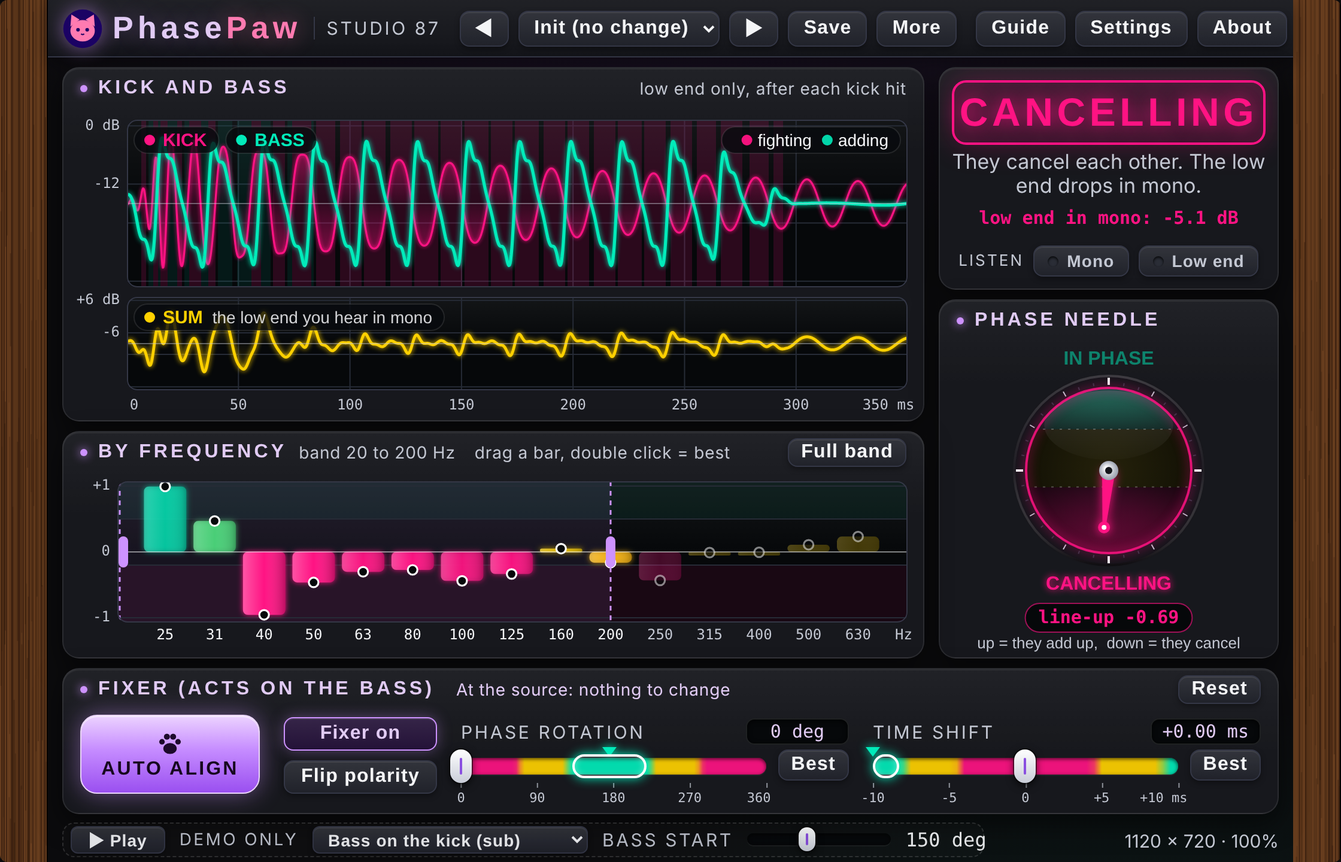
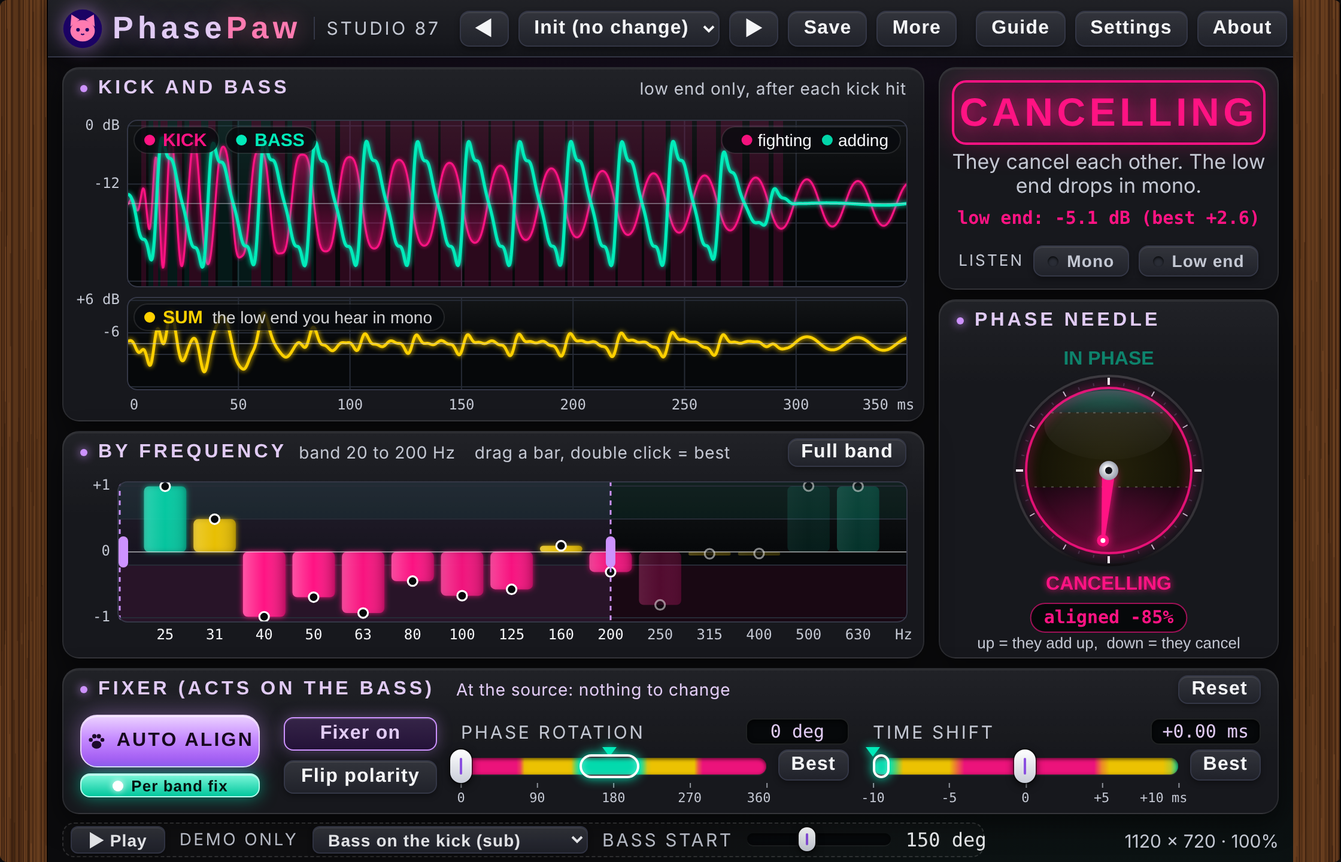
Mockup v9: alignment relative to the best reachable, Auto Align with per band fix
Claude-Session: https://claude.ai/code/session_01S9jrKx1fybVa6evnWT4mGP

diff --git a/docs/mockups/PhasePaw-mockup-v9.html b/docs/mockups/PhasePaw-mockup-v9.html
@@ -3,7 +3,7 @@
 <head>
 <meta charset="utf-8">
 <meta name="viewport" content="width=device-width,initial-scale=1">
-<title>PhasePaw v7 design mockup, Studio 87</title>
+<title>PhasePaw v9 design mockup, Studio 87</title>
 <link href="https://fonts.googleapis.com/css2?family=Barlow+Condensed:wght@500;600;700&family=JetBrains+Mono:wght@400;500;700&display=swap" rel="stylesheet">
 <style>
 :root,#page[data-skin="B"]{--page:#0b0b0d;--panel:#14151a;--panel2:#1e2028;--line:#343746;--disp:#06080a;--grid:#262b36;--text:#f4f5f7;--dim:#c3c7d2;--title:#E1CBF4;--selbg:#241238;--selbd:#CD92FE;--seltx:#E1CBF4;--kick:#FF1383;--bass:#02EBBA;--sum:#FFD100;--good:#02EBBA;--warn:#FFD100;--bad:#FF1383}
@@ -123,6 +123,7 @@ textarea{height:auto;width:100%;font:500 14px 'JetBrains Mono','DejaVu Sans Mono
 .chip.mon .led{width:9px;height:9px;border-radius:50%;background:#2a2d36;box-shadow:inset 0 1px 2px rgba(0,0,0,.9)}
 .chip.mon.on{color:#04130f;background:linear-gradient(180deg,#7df7da,#02c79d);border-color:#b6ffee;box-shadow:0 0 14px rgba(2,235,186,.55),inset 0 1px 0 rgba(255,255,255,.5)}
 .chip.mon.on .led{background:#fff;box-shadow:0 0 6px #fff}
+.btn.primary svg{width:20px;height:20px}
 </style>
 </head>
 <body>
@@ -149,7 +150,7 @@ textarea{height:auto;width:100%;font:500 14px 'JetBrains Mono','DejaVu Sans Mono
   </div>
 
   <div class="panel" id="pTrace" style="left:52px;top:56px;width:720px;height:296px">
-    <div class="ph"><h2>Kick and bass</h2><span class="sp"></span><span class="hint">low end only, after each kick hit</span></div>
+    <div class="ph"><h2>Kick and bass</h2><span class="sp"></span><span class="hint" id="hitLab">low end only, after each kick hit</span></div>
     <canvas id="cvTrace" style="width:704px;height:252px;margin:5px 7px 0"></canvas>
   </div>
 
@@ -175,7 +176,7 @@ textarea{height:auto;width:100%;font:500 14px 'JetBrains Mono','DejaVu Sans Mono
     <div class="ph"><h2>Fixer (acts on the bass)</h2><span class="hint" id="srcHint" data-tip="The same fix done before the plugin, so you can switch the fixer off and add no latency. In a synth: move the oscillator start phase by this many degrees (retrigger must be on). With an audio clip: nudge it by this many ms. It matches the fixer at the bass note itself; bands you turned by hand are not included." style="flex:1;min-width:0;overflow:hidden;text-overflow:ellipsis;color:var(--seltx);margin-left:8px"></span>
       <button class="btn" id="fxReset" data-tip="Put the fixer back to its start values. Key: R." style="height:24px;padding:0 10px">Reset</button></div>
     <div style="display:flex;gap:20px;padding:4px 14px 0;align-items:flex-start">
-      <button class="btn primary" id="fxAuto" data-tip="Finds the best fix in one click: tries every time shift and phase rotation together, then flips the polarity instead when that needs less rotation. It clears any bands you turned by hand. Key: A." style="height:66px;width:150px;flex:none"><svg viewBox="0 0 24 24" width="24" height="24" fill="#1d0a2b" aria-hidden="true"><ellipse cx="12" cy="16.2" rx="5.6" ry="4.6"/><circle cx="5.3" cy="10.6" r="2.3"/><circle cx="9.4" cy="6.4" r="2.5"/><circle cx="14.6" cy="6.4" r="2.5"/><circle cx="18.7" cy="10.6" r="2.3"/></svg><span>AUTO ALIGN</span></button>
+      <div style="display:flex;flex-direction:column;gap:5px;width:150px;flex:none"><button class="btn primary" id="fxAuto" data-tip="Finds the best fix in one click: tries every time shift and phase rotation together, then flips the polarity instead when that needs less rotation. It clears any bands you turned by hand. Key: A." style="height:44px;width:150px;flex:none;flex-direction:row;gap:8px"><svg viewBox="0 0 24 24" width="24" height="24" fill="#1d0a2b" aria-hidden="true"><ellipse cx="12" cy="16.2" rx="5.6" ry="4.6"/><circle cx="5.3" cy="10.6" r="2.3"/><circle cx="9.4" cy="6.4" r="2.5"/><circle cx="14.6" cy="6.4" r="2.5"/><circle cx="18.7" cy="10.6" r="2.3"/></svg><span>AUTO ALIGN</span></button><button class="chip mon on" id="fxDeep" data-tip="Per band fix. When lit, Auto Align also turns each frequency band to its own best phase, so basslines with several notes or octaves line up much better. The price in the real plugin: it needs some latency. Switch it off for the simple fix with one setting for everything. Clicking it runs Auto Align again." style="height:20px;font-size:13px;justify-content:center"><i class="led"></i>Per band fix</button></div>
       <div style="display:flex;flex-direction:column;gap:8px;width:128px;flex:none;padding-top:2px">
         <button class="chip on" id="fxOn" data-tip="Fixer on or off (A/B). Off passes the bass untouched. Key: B." style="height:28px;padding:0 4px">Fixer on</button>
         <button class="chip" id="fxPol" data-tip="Flip the polarity of the bass. A flipped bass turns cancelling into adding, and the other way round. Key: P." style="height:28px;padding:0 4px">Flip polarity</button>
@@ -195,7 +196,7 @@ textarea{height:auto;width:100%;font:500 14px 'JetBrains Mono','DejaVu Sans Mono
   <div class="row" id="demo" style="position:absolute;left:52px;top:687px;width:770px;height:29px;gap:12px">
     <button class="btn" id="bPlay" data-tip="Play or stop the demo loop (Space). The sound restarts when you move a control; that is a limit of this preview page." style="height:28px;padding:0 14px">&#9654; Play</button>
     <span class="lab" style="color:var(--dim);font-size:14px">Demo only</span>
-    <select id="selSig" style="height:28px;width:230px" data-tip="Demo kick and bass made inside this page. In the plugin the kick comes in through the sidechain and the bass is the track."><option value="sub">Kick + sub on the hit</option><option value="off">Kick + offbeat bass</option><option value="roll">Rolling bass, gap on the beat</option><option value="short">Short punchy kick + long sub</option><option value="a1">Kick + sub in A (55 Hz)</option><option value="oct">Bass one octave above the kick</option><option value="long">Long bass, kick 6% detuned</option><option value="free">Free-running bass (no retrigger)</option></select>
+    <select id="selSig" style="height:28px;width:230px" data-tip="Demo kick and bass made inside this page. In the plugin the kick comes in through the sidechain and the bass is the track."><option value="sub">Bass on the kick (sub)</option><option value="off">Offbeat bass</option><option value="oct80">80s octave bass: low on the kick, high between</option><option value="offoct">Offbeat bass, low and high octave</option><option value="rolloct">Rolling bass, low high low</option><option value="roll">Rolling bass, one note</option><option value="offmel">Offbeat bassline, note changes</option><option value="rollmel">Rolling melodic bassline</option><option value="onmel">Sustained bass, note changes</option><option value="house">Syncopated house bass</option><option value="short">Short punchy kick + long sub</option><option value="a1">Kick + sub in A (55 Hz)</option><option value="oct">Bass one octave above the kick</option><option value="long">Long bass, kick 6% detuned</option><option value="free">Free-running bass (no retrigger)</option></select>
     <span class="lab" style="color:var(--dim);font-size:15px">Bass start</span>
     <div class="sl" id="slBph" tabindex="0" style="max-width:160px;min-width:120px" data-tip="Where the demo bass starts in its cycle, 0 to 360 degrees. Move it to make the demo clash or line up. Double click to reset."><div class="trk"></div><i class="thumb"></i></div>
     <span class="val" id="vBph" style="width:60px">150 deg</span>
@@ -230,7 +231,7 @@ var NOTES=[['E1',41.20],['F1',43.65],['F#1',46.25],['G1',49.00],['G#1',51.91],['
 
 /* ===== state ===== */
 var DEF={on:true,pol:1,rot:0,time:0,lo:20,hi:200,full:false};
-var S={on:true,pol:1,rot:0,time:0,lo:20,hi:200,full:false,sig:'sub',note:1,bph:150,wid:0,mon:'mix',vol:-6,bp:[0,0,0,0,0,0,0,0,0,0,0,0,0,0,0],mono:false,low:false,win:350,show:{kick:1,b0:1,bf:1,sum:1}};
+var S={on:true,pol:1,rot:0,time:0,lo:20,hi:200,full:false,sig:'sub',note:1,bph:150,wid:0,mon:'mix',vol:-6,bp:[0,0,0,0,0,0,0,0,0,0,0,0,0,0,0],mono:false,low:false,deep:true,win:350,show:{kick:1,b0:1,bf:1,sum:1}};
 var SET={theme:'B',bubbles:true,power:false};
 try{var sv=JSON.parse(localStorage.getItem('phasepaw.settings.v1')||'{}'); if(sv.theme&&'ABC'.indexOf(sv.theme)>=0)SET.theme=sv.theme; if(typeof sv.bubbles==='boolean')SET.bubbles=sv.bubbles; if(typeof sv.power==='boolean')SET.power=sv.power;}catch(e){}
 function saveSettings(){try{localStorage.setItem('phasepaw.settings.v1',JSON.stringify(SET));}catch(e){}}
@@ -266,39 +267,44 @@ function genKick(f1,sh){
   for(var m=0;m<N;m++)k[m]*=0.9/mx;return k;
 }
 function noteEnv(t,len,att,rel){if(t<0||t>len+rel)return 0;var a=Math.min(1,t/att);var r=t<len?1:Math.max(0,1-(t-len)/rel);return a*r;}
-function genBass(f,phDeg,sig){
-  var b=new Float64Array(N),phi=phDeg*Math.PI/180,mx=0,notes,amps=[],nh=Math.min(110,Math.floor(4800/f));
-  for(var h=1;h<=nh;h++){var fr=h*f;amps.push((h===1?1.7:1/Math.pow(h,0.92))/(1+Math.pow(fr/2600,2)));}
-  if(sig==='sub')notes=[[0,0.26]];
-  else if(sig==='roll')notes=[[0.25*T,0.07],[0.5*T,0.07],[0.75*T,0.07]];
-  else if(sig==='off')notes=[[0.5*T,0.13]];
-  else notes=[[0,0.32]];
-  for(var n=0;n<N;n++){var t=n/SR,v=0;
-    for(var q=0;q<notes.length;q++){var lt=t-notes[q][0];if(lt<0)continue;
-      var e=noteEnv(lt,notes[q][1],0.003,sig==='roll'?0.015:0.04);if(!e)continue;
-      var w=2*Math.PI*f*lt+phi,s1=Math.sin(w),c1=Math.cos(w),sp=0,sc=s1,cp=1,cc=c1,s=0;
-      for(var h2=0;h2<nh;h2++){s+=amps[h2]*sc;var ns2=2*c1*sc-sp;sp=sc;sc=ns2;}
-      v+=e*s;}
-    b[n]=v;mx=Math.max(mx,Math.abs(v));}
-  for(var m=0;m<N;m++)b[m]*=0.75/mx;return b;
+function genNotes(f0,phDeg,notes){
+  var b=new Float64Array(N),phi=phDeg*Math.PI/180;
+  notes.forEach(function(nt){var f=f0*Math.pow(2,(nt[2]||0)/12),nh=Math.min(110,Math.floor(4800/f)),amps=[],rel=nt[3]||0.04;
+    for(var h=1;h<=nh;h++){amps.push((h===1?1.7:1/Math.pow(h,0.92))/(1+Math.pow(h*f/2600,2)));}
+    var n0=Math.max(0,Math.floor(nt[0]*SR)),n1=Math.min(N,Math.ceil((nt[0]+nt[1]+rel)*SR));
+    for(var n=n0;n<n1;n++){var lt=n/SR-nt[0];if(lt<0)continue;var e=noteEnv(lt,nt[1],0.003,rel);if(!e)continue;
+      var w=2*Math.PI*f*lt+phi,c1=Math.cos(w),sp=0,sc=Math.sin(w),sm=0;
+      for(var h2=0;h2<nh;h2++){sm+=amps[h2]*sc;var ns2=2*c1*sc-sp;sp=sc;sc=ns2;}
+      b[n]+=e*sm;}});
+  return b;
 }
-var basses=null,hitI=0,hits=[];
+/* demo patterns: one list of notes per beat; a note is [start s, length s, semitones, release s] */
+function patterns(){var e8=0.5*T,s=0.25*T,r=0.015;
+  function off(n){return [[e8,0.13,n]];}
+  function roll(a,b,c){return [[s,0.07,a,r],[2*s,0.07,b,r],[3*s,0.07,c,r]];}
+  return {sub:[[[0,0.26,0]]],long:[[[0,0.32,0]]],off:[off(0)],roll:[roll(0,0,0)],
+    offoct:[off(0),off(12),off(0),off(12)],oct80:[[[0,0.12,0],[e8,0.12,12]]],rolloct:[roll(0,12,0)],
+    offmel:[off(0),off(0),off(3),off(5)],rollmel:[roll(0,0,0),roll(0,0,3),roll(5,5,5),roll(3,3,-2)],
+    onmel:[[[0,0.3,0]],[[0,0.3,0]],[[0,0.3,-2]],[[0,0.3,3]]],
+    house:[[[0,0.1,0],[3*s,0.06,0,r]],[[e8,0.1,0]],[[0,0.1,3],[3*s,0.06,3,r]],[[e8,0.1,5]]]};}
+var basses=null,hitI=0,hits=[],BL=[];
 function genSignals(){
-  var sg=S.sig,f=(sg==='a1')?55:NOTES[S.note][1],pat={sub:'sub',roll:'roll',off:'off',long:'long',short:'sub',oct:'sub',a1:'sub',free:'sub'}[sg]||'sub';
+  var sg=S.sig,f=(sg==='a1')?55:NOTES[S.note][1],P=patterns(),pat=P[{short:'sub',oct:'sub',a1:'sub',free:'sub'}[sg]||sg]||P.sub;
   kick=genKick(f*(sg==='long'?1.06:1),sg==='short');
-  var bf=(sg==='oct')?f*2:f;
-  if(sg==='free'){basses=[0,100,215,305].map(function(o){return genBass(bf,(S.bph+o)%360,pat);});hitI=0;bass0=basses[0];}
-  else{basses=null;bass0=genBass(bf,S.bph,pat);}
-  hits=[];Xs=rfft(kick);Bs=rfft(bass0);BRs=Bs;
+  var bf=(sg==='oct')?f*2:f,raw;
+  if(sg==='free')raw=[0,100,215,305].map(function(o){return genNotes(bf,(S.bph+o)%360,pat[0]);});
+  else raw=pat.map(function(nts){return genNotes(bf,S.bph,nts);});
+  var mx=1e-9;raw.forEach(function(b){for(var n=0;n<N;n++)mx=Math.max(mx,Math.abs(b[n]));});raw.forEach(function(b){for(var n=0;n<N;n++)b[n]*=0.75/mx;});
+  basses=raw.length>1?raw:null;BL=raw.map(function(b){return rfft(b);});hitI=0;bass0=raw[0];
+  Xs=rfft(kick);Bs=BL[0];BRs=Bs;
 }
-function setHit(i){if(!basses)return;hitI=i;bass0=basses[i];Bs=rfft(bass0);BRs=Bs;recompute(false,true);
-  var v=D.vec0,m=Math.sqrt(v.x*v.x+v.y*v.y);if(m>0.05){hits.push([v.x/m,v.y/m]);if(hits.length>8)hits.shift();}refreshExtras();}
-function hitSpread(){if(hits.length<3)return 1;var x=0,y=0;hits.forEach(function(h){x+=h[0];y+=h[1];});return Math.sqrt(x*x+y*y)/hits.length;}
+function setHit(i){if(!basses)return;hitI=i;bass0=basses[i];Bs=BL[i];BRs=Bs;process();refreshVerdict();refreshExtras();dirty=true;}
 function fixArr(arr){var F=rfft(arr),r=new Float64Array(H+1),im=new Float64Array(H+1),th=S.rot*Math.PI/180,d=S.time/1000;
   for(var k=0;k<=H;k++){var m=Mk[k],gr=1,gi=0;if(m>0){var ph=th+Ex[k]-2*Math.PI*k*DF*d;gr=(1-m)+m*S.pol*Math.cos(ph);gi=m*S.pol*Math.sin(ph);}r[k]=F.re[k]*gr-F.im[k]*gi;im[k]=F.re[k]*gi+F.im[k]*gr;}return irfft(r,im);}
 /* bass note inside the band, and the same fix done before the plugin */
-function bassNote(){var best=0,bk=0;for(var k=kmin+1;k<kmax;k++){var m=Mk[k];if(m<0.5)continue;var a=Math.sqrt(Bs.re[k]*Bs.re[k]+Bs.im[k]*Bs.im[k]);if(a>best){best=a;bk=k;}}
-  if(!bk)return 0;var mg=function(k){return Math.sqrt(Bs.re[k]*Bs.re[k]+Bs.im[k]*Bs.im[k]);},a0=mg(bk-1),a1=mg(bk),a2=mg(bk+1),den=a0-2*a1+a2,off=den?0.5*(a0-a2)/den:0;return (bk+clamp(off,-0.5,0.5))*DF;}
+function bassNote(){var mg=function(k){var a=0;for(var q=0;q<BL.length;q++){var B=BL[q];a+=Math.sqrt(B.re[k]*B.re[k]+B.im[k]*B.im[k]);}return a;},best=0,bk=0;
+  for(var k=kmin+1;k<kmax;k++){if(Mk[k]<0.5)continue;var a=mg(k);if(a>best){best=a;bk=k;}}
+  if(!bk)return 0;var a0=mg(bk-1),a1=mg(bk),a2=mg(bk+1),den=a0-2*a1+a2,off=den?0.5*(a0-a2)/den:0;return (bk+clamp(off,-0.5,0.5))*DF;}
 function sourceFix(){var f0=bassNote();if(!f0)return null;var psi=S.on?(S.rot+(S.pol<0?180:0)-360*f0*S.time/1000):0;psi=((psi%360)+540)%360-180;
   return {f:f0,deg:psi,ms:-psi/(360*f0)*1000,bands:S.on&&S.bp.some(function(v){return Math.abs(v)>0.5;})};}
 
@@ -306,20 +312,31 @@ function sourceFix(){var f0=bassNote();if(!f0)return null;var psi=S.on?(S.rot+(S
 var Mk=new Float64Array(H+1),kmin=1,kmax=H;
 function ss(x){x=clamp(x,0,1);return x*x*(3-2*x);}
 var Ex=new Float64Array(H+1);
-function setEx(){for(var k=0;k<=H;k++){var p=Math.round(Math.log2(Math.max(k*DF,1)/25)*3);p=p<0?0:(p>14?14:p);Ex[k]=S.bp[p]*Math.PI/180;}}
+function setEx(){for(var k=0;k<=H;k++){if(!S.on){Ex[k]=0;continue;}var p=Math.round(Math.log2(Math.max(k*DF,1)/25)*3);p=p<0?0:(p>14?14:p);Ex[k]=S.bp[p]*Math.PI/180;}}
 function setMask(){setEx();
   var top=S.full?2000:2500;kmax=Math.min(H,Math.floor(top/DF));kmin=Math.max(1,Math.floor(12/DF));
   for(var k=0;k<=H;k++){var f=k*DF,m=0;
     if(k>=kmin&&k<=kmax){ if(S.full)m=1;else{var lr=Math.log2(f/S.lo),hr=Math.log2(S.hi/f);m=ss((lr+0.3)/0.6)*ss((hr+0.3)/0.6);} }
     Mk[k]=m;}
 }
+/* the most that kick and bass can add up with one phase turn and one time shift ("overlap") */
+var cmaxBase=0,tDeep=0;
+function calcMax(){var ks=[],k,q,B,w=0,bestG=0,bestB=-1;for(k=kmin;k<=kmax;k++){if(Mk[k]>=1e-3)ks.push(k);}
+  var n=ks.length,cre=new Float64Array(n),cim=new Float64Array(n),bd=new Int8Array(n);
+  for(var i=0;i<n;i++){k=ks[i];var m=Mk[k],xr=Xs.re[k],xi=Xs.im[k],xm=Math.sqrt(xr*xr+xi*xi),p=Math.round(Math.log2(Math.max(k*DF,1)/25)*3);bd[i]=p<0?0:(p>14?14:p);
+    for(q=0;q<BL.length;q++){B=BL[q];cre[i]+=m*(xr*B.re[k]+xi*B.im[k]);cim[i]+=m*(xi*B.re[k]-xr*B.im[k]);w+=m*xm*Math.sqrt(B.re[k]*B.re[k]+B.im[k]*B.im[k]);}}
+  var ba=new Float64Array(15),bb=new Float64Array(15);tDeep=0;
+  for(var t=-10;t<=10.001;t+=0.1){var a=0,b=0,j;for(j=0;j<15;j++){ba[j]=0;bb[j]=0;}
+    for(j=0;j<n;j++){var ph=2*Math.PI*ks[j]*DF*t/1000,c=Math.cos(ph),sn=Math.sin(ph),u=cre[j]*c-cim[j]*sn,v=cre[j]*sn+cim[j]*c;a+=u;b+=v;ba[bd[j]]+=u;bb[bd[j]]+=v;}
+    var mg=Math.sqrt(a*a+b*b);if(mg>bestG)bestG=mg;
+    var sb=0;for(j=0;j<15;j++)sb+=Math.sqrt(ba[j]*ba[j]+bb[j]*bb[j]);var sc=sb-0.004*Math.abs(t)*w;if(sc>bestB){bestB=sc;tDeep=-Math.round(t*10)/10;D.bMax=w>0?sb/w:0;}}
+  D.gMax=w>0?bestG/w:0;cmaxBase=S.deep?D.bMax:D.gMax;}
+function rel(c){var m=(D&&D.cmax)||1;return clamp(c/m,-1,1);}
 function corrWith(rotDeg,timeMs,pol){
-  var th=rotDeg*Math.PI/180,d=timeMs/1000,w=0,c=0;
+  var th=rotDeg*Math.PI/180,d=timeMs/1000,w=0,c=0,nb=BL.length;
   for(var k=kmin;k<=kmax;k++){var m=Mk[k];if(m<1e-3)continue;
-    var ph=th+Ex[k]-2*Math.PI*k*DF*d,rr=pol*Math.cos(ph),ri=pol*Math.sin(ph);
-    var gr=(1-m)+m*rr,gi=m*ri,br=Bs.re[k]*gr-Bs.im[k]*gi,bi=Bs.re[k]*gi+Bs.im[k]*gr;
-    var xr=Xs.re[k],xi=Xs.im[k];
-    w+=m*Math.sqrt((xr*xr+xi*xi)*(br*br+bi*bi));c+=m*(xr*br+xi*bi);}
+    var ph=th+Ex[k]-2*Math.PI*k*DF*d,rr=pol*Math.cos(ph),ri=pol*Math.sin(ph),gr=(1-m)+m*rr,gi=m*ri,xr=Xs.re[k],xi=Xs.im[k],x2=xr*xr+xi*xi;
+    for(var q=0;q<nb;q++){var B=BL[q],r0=B.re[k],i0=B.im[k],br=r0*gr-i0*gi,bi=r0*gi+i0*gr;w+=m*Math.sqrt(x2*(br*br+bi*bi));c+=m*(xr*br+xi*bi);}}
   var cc=w>0?c/w:0;return {c:cc,g:10*Math.log10(Math.max(1e-4,1+cc))};
 }
 var D={};
@@ -327,8 +344,8 @@ function bandCorrAt(i,rDeg){
   var lo=BANDS[i]*Math.pow(2,-1/6),hi=BANDS[i]*Math.pow(2,1/6),k0=Math.max(1,Math.ceil(lo/DF)),k1=Math.max(k0,Math.floor(hi/DF));
   var th=(S.rot+rDeg)*Math.PI/180,d=S.time/1000,w=0,c=0;
   for(var k=k0;k<=k1;k++){var m=Mk[k];var gr=1,gi=0;if(m>0){var ph=th-2*Math.PI*k*DF*d,rr=S.pol*Math.cos(ph),ri=S.pol*Math.sin(ph);gr=(1-m)+m*rr;gi=m*ri;}
-    var br=Bs.re[k]*gr-Bs.im[k]*gi,bi=Bs.re[k]*gi+Bs.im[k]*gr,xr=Xs.re[k],xi=Xs.im[k];
-    w+=Math.sqrt((xr*xr+xi*xi)*(br*br+bi*bi));c+=xr*br+xi*bi;}
+    var xr=Xs.re[k],xi=Xs.im[k],x2=xr*xr+xi*xi;
+    for(var q=0;q<BL.length;q++){var B=BL[q],br=B.re[k]*gr-B.im[k]*gi,bi=B.re[k]*gi+B.im[k]*gr;w+=Math.sqrt(x2*(br*br+bi*bi));c+=xr*br+xi*bi;}}
   return w>0?c/w:0;
 }
 function bandSolve(i,target,cur){var best=0,bd=9;for(var r=0;r<360;r+=3){var d=Math.abs(bandCorrAt(i,r)-target)+0.0008*Math.abs(((r-cur+540)%360)-180)/180;if(d<bd){bd=d;best=r;}}return best;}
@@ -342,16 +359,20 @@ function autoAlign(){
   var pol=1;if(br>90&&br<270){pol=-1;br=(br+180)%360;}
   bt=Math.round(bt*20)/20;var bc=corrWith(br,bt,pol).c,cands=[[1,0,0],[-1,0,0],[pol,br,0],[pol,0,bt]];
   for(var i=0;i<cands.length;i++){var q=cands[i];if(corrWith(q[1],q[2],q[0]).c>=bc-0.01){pol=q[0];br=q[1];bt=q[2];break;}}
-  S.pol=pol;S.rot=br;S.time=bt;syncUI();recompute(false);
+  S.pol=pol;S.rot=br;S.time=bt;
+  if(S.deep){setMask();calcMax();var tt=clamp(tDeep,-10,10),bst=-9,brr=0;for(var r3=0;r3<360;r3+=2){var c3=corrWith(r3,tt,1).c;if(c3>bst){bst=c3;brr=r3;}}
+    var pl=1;if(brr>90&&brr<270){pl=-1;brr=(brr+180)%360;}S.pol=pl;S.rot=brr;S.time=tt;setMask();
+    for(var j=0;j<BANDS.length;j++){if(!(S.full||(BANDS[j]>=S.lo/1.15&&BANDS[j]<=S.hi*1.15)))continue;var bb=bandBest(j);if(bandCorrAt(j,bb)-bandCorrAt(j,0)>0.02)S.bp[j]=bb;}}
+  syncUI();recompute(false);
 }
 function process(){
   var on=S.on,th=S.rot*Math.PI/180,d=S.time/1000,pol=S.pol;
   var BFr=new Float64Array(H+1),BFi=new Float64Array(H+1),RFr=new Float64Array(H+1),RFi=new Float64Array(H+1);
-  var BBr=new Float64Array(H+1),BBi=new Float64Array(H+1),XBr=new Float64Array(H+1),XBi=new Float64Array(H+1);
+  var BBr=new Float64Array(H+1),BBi=new Float64Array(H+1),XBr=new Float64Array(H+1),XBi=new Float64Array(H+1),Gr=new Float64Array(H+1),Gi=new Float64Array(H+1);
   for(var k=0;k<=H;k++){
     var m=Mk[k],gr=1,gi=0,rr=1,ri=0;
     if(on&&m>0){var ph=th+Ex[k]-2*Math.PI*k*DF*d;rr=pol*Math.cos(ph);ri=pol*Math.sin(ph);gr=(1-m)+m*rr;gi=m*ri;}
-    BFr[k]=Bs.re[k]*gr-Bs.im[k]*gi;BFi[k]=Bs.re[k]*gi+Bs.im[k]*gr;
+    Gr[k]=gr;Gi[k]=gi;BFr[k]=Bs.re[k]*gr-Bs.im[k]*gi;BFi[k]=Bs.re[k]*gi+Bs.im[k]*gr;
     RFr[k]=BRs.re[k]*gr-BRs.im[k]*gi;RFi[k]=BRs.re[k]*gi+BRs.im[k]*gr;
     var mr=on?m*rr:m,mi=on?m*ri:0;
     BBr[k]=Bs.re[k]*mr-Bs.im[k]*mi;BBi[k]=Bs.re[k]*mi+Bs.im[k]*mr;
@@ -365,20 +386,22 @@ function process(){
   var hop=64,nb=N/hop;D.bk=new Float64Array(nb);D.bb=new Float64Array(nb);D.bs=new Float64Array(nb);
   for(var i=0;i<nb;i++){var a=0,b=0,c=0;for(var j=0;j<hop;j++){var n2=i*hop+j;a=Math.max(a,Math.abs(kick[n2]));b=Math.max(b,Math.abs(D.bf[n2]));c=Math.max(c,Math.abs(D.sum[n2]));}D.bk[i]=a;D.bb[i]=b;D.bs[i]=c;}
   /* overall (band) */
-  var ov=on?corrWith(S.rot,S.time,S.pol):corrWith(0,0,1);D.corr=ov.c;D.gain=ov.g;
-  (function(){var cr=0,ci=0,w=0,cr0=0,ci0=0,w0=0;for(var k=kmin;k<=kmax;k++){var m=Mk[k];if(m<1e-3)continue;var xr=Xs.re[k],xi=Xs.im[k],xm=Math.sqrt(xr*xr+xi*xi);
-    var br=BFr[k],bi=BFi[k];cr+=m*(xr*br+xi*bi);ci+=m*(xi*br-xr*bi);w+=m*xm*Math.sqrt(br*br+bi*bi);
-    br=Bs.re[k];bi=Bs.im[k];cr0+=m*(xr*br+xi*bi);ci0+=m*(xi*br-xr*bi);w0+=m*xm*Math.sqrt(br*br+bi*bi);}
-    D.vec=w>0?{x:-ci/w,y:cr/w}:{x:0,y:0};D.vec0=w0>0?{x:-ci0/w0,y:cr0/w0}:{x:0,y:0};})();
+  var ov=on?corrWith(S.rot,S.time,S.pol):corrWith(0,0,1);D.corr=ov.c;D.gain=ov.g;D.cmax=Math.max(cmaxBase,Math.abs(D.corr),1e-6);D.gainBest=10*Math.log10(1+D.cmax);
+  (function(){var cr=0,ci=0,w=0,cr0=0,ci0=0,w0=0,hx=0,hy=0,hn=0;
+    BL.forEach(function(B){var a=0,b=0,ww=0;for(var k=kmin;k<=kmax;k++){var m=Mk[k];if(m<1e-3)continue;var xr=Xs.re[k],xi=Xs.im[k],xm=Math.sqrt(xr*xr+xi*xi),r0=B.re[k],i0=B.im[k],br=r0*Gr[k]-i0*Gi[k],bi=r0*Gi[k]+i0*Gr[k];
+        cr+=m*(xr*br+xi*bi);ci+=m*(xi*br-xr*bi);w+=m*xm*Math.sqrt(br*br+bi*bi);a+=m*(xr*r0+xi*i0);b+=m*(xi*r0-xr*i0);ww+=m*xm*Math.sqrt(r0*r0+i0*i0);}
+      cr0+=a;ci0+=b;w0+=ww;var mg=Math.sqrt(a*a+b*b);if(ww>0&&mg/ww>0.05){hx+=-b/mg;hy+=a/mg;hn++;}});
+    D.vec=w>0?{x:-ci/w,y:cr/w}:{x:0,y:0};D.vec0=w0>0?{x:-ci0/w0,y:cr0/w0}:{x:0,y:0};D.hitR=hn>1?Math.sqrt(hx*hx+hy*hy)/hn:1;})();
   /* per band, after and before */
   D.bc=[];D.bc0=[];D.be=[];var emax=-1e9;
   for(var bI=0;bI<BANDS.length;bI++){
     var lo=BANDS[bI]*Math.pow(2,-1/6),hi=BANDS[bI]*Math.pow(2,1/6),k0=Math.max(1,Math.ceil(lo/DF)),k1=Math.max(k0,Math.floor(hi/DF));
-    var w1=0,c1=0,w0=0,c0=0;
+    var w1=0,c1=0,s1=0,w0=0,c0=0,s0=0;
     for(var kk=k0;kk<=k1;kk++){var xr=Xs.re[kk],xi=Xs.im[kk],xm=Math.sqrt(xr*xr+xi*xi);
-      w1+=xm*Math.sqrt(BFr[kk]*BFr[kk]+BFi[kk]*BFi[kk]);c1+=xr*BFr[kk]+xi*BFi[kk];
-      w0+=xm*Math.sqrt(Bs.re[kk]*Bs.re[kk]+Bs.im[kk]*Bs.im[kk]);c0+=xr*Bs.re[kk]+xi*Bs.im[kk];}
-    D.bc.push(w1>0?c1/w1:0);D.bc0.push(w0>0?c0/w0:0);
+      for(var q2=0;q2<BL.length;q2++){var B2=BL[q2],r0=B2.re[kk],i0=B2.im[kk],fr=r0*Gr[kk]-i0*Gi[kk],fi=r0*Gi[kk]+i0*Gr[kk];
+        w1+=xm*Math.sqrt(fr*fr+fi*fi);c1+=xr*fr+xi*fi;s1+=xi*fr-xr*fi;w0+=xm*Math.sqrt(r0*r0+i0*i0);c0+=xr*r0+xi*i0;s0+=xi*r0-xr*i0;}}
+    var m1=w1>0?Math.sqrt(c1*c1+s1*s1)/w1:0,m0=w0>0?Math.sqrt(c0*c0+s0*s0)/w0:0;D.bcm=D.bcm||[];D.bcm[bI]=m1;
+    D.bc.push(m1>1e-6?clamp(c1/w1/m1,-1,1):0);D.bc0.push(m0>1e-6?clamp(c0/w0/m0,-1,1):0);
     var e=10*Math.log10(Math.max(1e-9,w0));D.be.push(e);emax=Math.max(emax,e);
   }
   for(var q=0;q<D.be.length;q++)D.be[q]-=emax;
@@ -400,8 +423,8 @@ function readCols(){var cs=getComputedStyle($('#page'));['page','panel','panel2'
 function hex2rgb(h){h=h.replace('#','');return [parseInt(h.substr(0,2),16),parseInt(h.substr(2,2),16),parseInt(h.substr(4,2),16)];}
 function mix(a,b,t){return 'rgb('+Math.round(a[0]+(b[0]-a[0])*t)+','+Math.round(a[1]+(b[1]-a[1])*t)+','+Math.round(a[2]+(b[2]-a[2])*t)+')';}
 function corrColor(c){var bad=hex2rgb(COL.bad),warn=hex2rgb(COL.warn),good=hex2rgb(COL.good);
-  if(c<=-0.25)return mix(bad,bad,0);if(c<-0.15)return mix(bad,warn,(c+0.25)/0.1);if(c<0.4)return mix(warn,warn,0);if(c<0.5)return mix(warn,good,(c-0.4)/0.1);return mix(good,good,0);}
-function zoneOf(c){return c>=0.5?'good':(c>=-0.2?'warn':'bad');}
+  if(c<=-0.25)return mix(bad,bad,0);if(c<-0.15)return mix(bad,warn,(c+0.25)/0.1);if(c<0.6)return mix(warn,warn,0);if(c<0.7)return mix(warn,good,(c-0.6)/0.1);return mix(good,good,0);}
+function zoneOf(c){var a=rel(c);return a>=0.7?'good':(a>=-0.2?'warn':'bad');}
 function rgba(hex,a){var c=hex2rgb(hex);return 'rgba('+c[0]+','+c[1]+','+c[2]+','+a+')';}
 function setup(cv){var w=parseInt(cv.style.width),h=parseInt(cv.style.height);if(cv.width!==w*2){cv.width=w*2;cv.height=h*2;}var g=cv.getContext('2d');g.setTransform(2,0,0,2,0,0);g.clearRect(0,0,w,h);return {g:g,w:w,h:h};}
 function fmtDb(v){return (v<=-90)?'-inf':(v>=0?'+':'')+v.toFixed(1);}
@@ -475,10 +498,10 @@ function drawDial(){
   g.fillStyle=bz;g.beginPath();g.arc(cx,cy,R+11,0,6.3);g.fill();g.fillStyle=COL.panel;g.beginPath();g.arc(cx,cy,R+9,0,6.3);g.fill();
   for(var a=0;a<360;a+=10){var big=a%90===0,mid=a%30===0,r0=R+2.5,r1=R+(big?8.5:(mid?7:5)),sa=Math.sin(a*Math.PI/180),ca=Math.cos(a*Math.PI/180);g.strokeStyle=big?COL.text:(mid?COL.dim:COL.line);g.lineWidth=big?2:1;g.beginPath();g.moveTo(cx+sa*r0,cy-ca*r0);g.lineTo(cx+sa*r1,cy-ca*r1);g.stroke();}
   g.save();g.beginPath();g.arc(cx,cy,R,0,Math.PI*2);g.clip();g.fillStyle=COL.disp;g.fillRect(cx-R,cy-R,2*R,2*R);
-  var gr=g.createLinearGradient(0,cy-R,0,cy+R);gr.addColorStop(0,rgba(COL.good,.55));gr.addColorStop(.25,rgba(COL.good,.14));gr.addColorStop(.2501,rgba(COL.warn,.11));gr.addColorStop(.6,rgba(COL.warn,.11));gr.addColorStop(.6001,rgba(COL.bad,.15));gr.addColorStop(1,rgba(COL.bad,.6));
+  var gr=g.createLinearGradient(0,cy-R,0,cy+R);gr.addColorStop(0,rgba(COL.good,.55));gr.addColorStop(.15,rgba(COL.good,.16));gr.addColorStop(.1501,rgba(COL.warn,.11));gr.addColorStop(.6,rgba(COL.warn,.11));gr.addColorStop(.6001,rgba(COL.bad,.15));gr.addColorStop(1,rgba(COL.bad,.6));
   g.fillStyle=gr;g.fillRect(cx-R,cy-R,2*R,2*R);
   var rg=g.createRadialGradient(cx,cy,R*0.2,cx,cy,R);rg.addColorStop(0,'rgba(0,0,0,0)');rg.addColorStop(1,'rgba(0,0,0,.42)');g.fillStyle=rg;g.fillRect(cx-R,cy-R,2*R,2*R);
-  g.setLineDash([2,5]);g.lineWidth=1;g.strokeStyle='rgba(255,255,255,.25)';[cy-R*0.5,cy+R*0.2].forEach(function(y){g.beginPath();g.moveTo(cx-R,y);g.lineTo(cx+R,y);g.stroke();});g.setLineDash([]);
+  g.setLineDash([2,5]);g.lineWidth=1;g.strokeStyle='rgba(255,255,255,.25)';[cy-R*0.7,cy+R*0.2].forEach(function(y){g.beginPath();g.moveTo(cx-R,y);g.lineTo(cx+R,y);g.stroke();});g.setLineDash([]);
   /* glass */
   var gl=g.createLinearGradient(0,cy-R,0,cy);gl.addColorStop(0,'rgba(255,255,255,.14)');gl.addColorStop(1,'rgba(255,255,255,0)');g.fillStyle=gl;g.beginPath();g.ellipse(cx,cy-R*0.55,R*0.78,R*0.42,0,0,6.3);g.fill();
   g.restore();
@@ -486,14 +509,15 @@ function drawDial(){
   g.font='700 16px '+UIF;g.textAlign='center';
   g.save();if(z==='good'){g.shadowColor=COL.good;g.shadowBlur=12;}g.fillStyle=z==='good'?COL.good:rgba(COL.good,.5);g.fillText('IN PHASE',cx,cy-R-24);g.restore();
   g.save();if(z==='bad'){g.shadowColor=COL.bad;g.shadowBlur=12;}g.fillStyle=z==='bad'?COL.bad:rgba(COL.bad,.55);g.fillText('CANCELLING',cx,cy+R+26);g.restore();
-  var moved=Math.abs(D.vec.x-D.vec0.x)+Math.abs(D.vec.y-D.vec0.y)>0.03;
-  if(moved){var x0=cx+D.vec0.x*R,y0=cy-D.vec0.y*R;g.save();g.strokeStyle='rgba(255,255,255,.55)';g.lineWidth=1.5;g.setLineDash([3,4]);g.beginPath();g.moveTo(cx,cy);g.lineTo(x0,y0);g.stroke();g.restore();
+  var sv=function(v){var m=D.cmax||1,x=v.x/m,y=v.y/m,l=Math.sqrt(x*x+y*y);if(l>1){x/=l;y/=l;}return {x:x,y:y};},V=sv(D.vec),V0=sv(D.vec0);
+  var moved=Math.abs(V.x-V0.x)+Math.abs(V.y-V0.y)>0.03;
+  if(moved){var x0=cx+V0.x*R,y0=cy-V0.y*R;g.save();g.strokeStyle='rgba(255,255,255,.55)';g.lineWidth=1.5;g.setLineDash([3,4]);g.beginPath();g.moveTo(cx,cy);g.lineTo(x0,y0);g.stroke();g.restore();
     g.fillStyle='rgba(255,255,255,.7)';g.beginPath();g.arc(x0,y0,3.5,0,6.3);g.fill();g.font='500 13px '+UIF;g.textAlign=x0>cx?'left':'right';g.fillText('before',x0+(x0>cx?8:-8),y0);}
-  var x=cx+D.vec.x*R,y=cy-D.vec.y*R,dx=x-cx,dy=y-cy,len=Math.sqrt(dx*dx+dy*dy)||1,nx=-dy/len,ny=dx/len,w=5.5;
+  var x=cx+V.x*R,y=cy-V.y*R,dx=x-cx,dy=y-cy,len=Math.sqrt(dx*dx+dy*dy)||1,nx=-dy/len,ny=dx/len,w=5.5;
   g.save();g.shadowColor=zc;g.shadowBlur=16;g.fillStyle=zc;g.beginPath();g.moveTo(cx+nx*w,cy+ny*w);g.lineTo(x+nx*1.3,y+ny*1.3);g.lineTo(x-nx*1.3,y-ny*1.3);g.lineTo(cx-nx*w,cy-ny*w);g.closePath();g.fill();g.beginPath();g.arc(x,y,5,0,6.3);g.fill();g.restore();
   g.fillStyle='#fff';g.beginPath();g.arc(x,y,2,0,6.3);g.fill();
   var hb=g.createRadialGradient(cx-2,cy-2,1,cx,cy,9);hb.addColorStop(0,'#ffffff');hb.addColorStop(1,'#8d93a3');g.fillStyle=hb;g.beginPath();g.arc(cx,cy,8,0,6.3);g.fill();g.fillStyle=COL.panel;g.beginPath();g.arc(cx,cy,3,0,6.3);g.fill();
-  var txt='line-up '+(D.corr>=0?'+':'')+D.corr.toFixed(2);g.font='700 15px '+FONT;var tw=g.measureText(txt).width+22;rr(g,cx-tw/2,Hh-42,tw,24,12);g.fillStyle=COL.disp;g.fill();g.strokeStyle=rgba(zc,.6);g.lineWidth=1;g.stroke();
+  var pc=Math.round(rel(D.corr)*100),txt='aligned '+(pc>0?'+':'')+pc+'%';g.font='700 15px '+FONT;var tw=g.measureText(txt).width+22;rr(g,cx-tw/2,Hh-42,tw,24,12);g.fillStyle=COL.disp;g.fill();g.strokeStyle=rgba(zc,.6);g.lineWidth=1;g.stroke();
   g.textAlign='center';g.fillStyle=zc;g.fillText(txt,cx,Hh-29.5);
   g.font='500 13px '+UIF;g.fillStyle=COL.dim;g.fillText('up = they add up,  down = they cancel',cx,Hh-8);
 }
@@ -509,7 +533,7 @@ function drawClash(){
   [1,0.5,-0.2,-1].forEach(function(p){g.strokeStyle=COL.grid;g.lineWidth=1;g.beginPath();g.moveTo(L,Y(p));g.lineTo(L+pw,Y(p));g.stroke();});
   var cen=[];
   for(var i=0;i<BANDS.length;i++){var fl=BANDS[i]*Math.pow(2,-1/6),fh=BANDS[i]*Math.pow(2,1/6),x0=bandX(fl,L,pw)+3,x1=bandX(fh,L,pw)-3,bw=x1-x0;
-    var inBand=S.full||(BANDS[i]>=S.lo/1.15&&BANDS[i]<=S.hi*1.15),en=clamp((D.be[i]+36)/36,0.12,1),al=(inBand?1:0.35)*(0.45+0.55*en);
+    var inBand=S.full||(BANDS[i]>=S.lo/1.15&&BANDS[i]<=S.hi*1.15),en=clamp((D.be[i]+36)/36,0.12,1),al=(inBand?1:0.35)*(0.45+0.55*en)*clamp((D.bcm[i]||0)/0.3,0.3,1);
     var v=D.bc[i],col=corrColor(v),yv=Y(v),top=Math.min(yv,cy),hgt=Math.max(3,Math.abs(yv-cy));
     g.save();g.globalAlpha=al;if(inBand){g.shadowColor=col;g.shadowBlur=10;}rr(g,x0,top,bw,hgt,Math.min(4,hgt/2));g.fillStyle=col;g.fill();g.shadowBlur=0;
     var hg=g.createLinearGradient(x0,0,x0+bw,0);hg.addColorStop(0,'rgba(255,255,255,.28)');hg.addColorStop(.5,'rgba(255,255,255,0)');hg.addColorStop(1,'rgba(0,0,0,.25)');g.fillStyle=hg;g.fill();g.restore();
@@ -529,10 +553,11 @@ function renderAll(){drawTrace();drawDial();drawClash();}
 
 /* ===== verdict and UI refresh ===== */
 function refreshVerdict(){
-  var z=zoneOf(D.corr),v=$('#verdict'),t=$('#vtext');
-  v.className=z;v.textContent={good:'In phase',warn:'Careful',bad:'Cancelling'}[z];
-  t.textContent={good:'Kick and bass add up. Safe in mono.',warn:'Partly out of phase. The low end may thin out in mono.',bad:'They cancel each other. The low end drops in mono.'}[z];
-  var lv=$('#vlevel');lv.textContent='low end in mono: '+(D.gain>=0?'+':'')+D.gain.toFixed(1)+' dB';lv.style.color='var(--'+z+')';
+  var z=zoneOf(D.corr),v=$('#verdict'),t=$('#vtext'),none=D.cmax<0.15;
+  if(none){v.className='good';v.textContent='No clash';t.textContent='Kick and bass barely overlap in the low end here. Phase hardly matters.';}
+  else{v.className=z;v.textContent={good:'In phase',warn:'Careful',bad:'Cancelling'}[z];
+    t.textContent={good:'Kick and bass add up as well as they can. Safe in mono.',warn:'Partly out of phase. The low end can be fuller.',bad:'They cancel each other. The low end drops in mono.'}[z];}
+  var lv=$('#vlevel'),f1=function(x){return (x>=0?'+':'')+x.toFixed(1);};lv.textContent='low end: '+f1(D.gain)+' dB  (best '+f1(D.gainBest)+')';lv.style.color='var(--'+(none?'good':z)+')';
   $('#clashBand').textContent=S.full?'full band to 2 kHz':('band '+Math.round(S.lo)+' to '+Math.round(S.hi)+' Hz');
 }
 var sliders={};
@@ -552,7 +577,7 @@ function makeSlider(id,o){
 }
 function sweetSegs(kind){
   var n=kind==='rot'?360:201,ok=[],i,b;
-  for(i=0;i<n;i++)ok.push((kind==='rot'?corrWith(i,S.time,S.pol).c:corrWith(S.rot,-10+i*0.1,S.pol).c)>=0.5);
+  for(i=0;i<n;i++)ok.push((kind==='rot'?corrWith(i,S.time,S.pol).c:corrWith(S.rot,-10+i*0.1,S.pol).c)>=0.7*D.cmax);
   b=kind==='rot'?Math.round(D.bestRot)%360:clamp(Math.round((D.bestTime+10)/0.1),0,n-1);
   if(!ok[b])return [];
   if(kind==='rot'){var l=b,r=b,c=0;while(c<360&&ok[(l-1+360)%360]){l--;c++;}if(c>=359)return [[0,1]];while(ok[(r+1)%360]&&r-l<359)r++;
@@ -565,7 +590,7 @@ function paintSweet(api,segs){api.sw=api.sw||[];var th=api.el.querySelector('.th
     e.style.borderLeftWidth=(segs.length>1&&sg[0]===0)?'0':'2px';e.style.borderRightWidth=(segs.length>1&&sg[1]===1)?'0':'2px';}
 }
 function paintTrack(api,vals,min,max,bestVal){
-  var n=vals.length,stops=[];for(var i=0;i<n;i++){stops.push(corrColor(vals[i])+' '+(i/(n-1)*100).toFixed(1)+'%');}
+  var n=vals.length,stops=[];for(var i=0;i<n;i++){stops.push(corrColor(rel(vals[i]))+' '+(i/(n-1)*100).toFixed(1)+'%');}
   api.trk.style.background='linear-gradient(90deg,'+stops.join(',')+')';
   api.best.style.left=((bestVal-min)/(max-min)*100)+'%';
 }
@@ -583,9 +608,10 @@ function syncUI(){
   $('#fxFull').className='chip'+(S.full?' on':'');
 }
 function refreshExtras(){
-  var unstable=S.sig==='free'&&hits.length>=3&&hitSpread()<0.8,v=$('#verdict'),t=$('#vtext'),h=$('#srcHint');
+  var unstable=S.sig==='free'&&D.hitR<0.8,v=$('#verdict'),t=$('#vtext'),h=$('#srcHint');
   if(unstable){v.className='warn';v.textContent='Unstable';t.textContent='The bass phase jumps from hit to hit. Turn on retrigger in the bass synth, or bounce the bass to audio.';t.style.fontSize='15px';}
   else t.style.fontSize='';
+  $('#hitLab').textContent=basses?('low end only, kick hit '+(hitI+1)+' of 4; verdict covers all 4'):'low end only, after each kick hit';
   var sf=sourceFix();
   if(unstable)h.textContent='At the source: turn on retrigger (phase reset) first';
   else if(!sf)h.textContent='';
@@ -595,7 +621,7 @@ function refreshExtras(){
 }
 function recompute(sigChanged,noAudio){
   if(sigChanged)genSignals();
-  setMask();process();
+  setMask();calcMax();process();
   paintTrack(slRot,D.rotC,0,360,D.bestRot);paintTrack(slTime,D.timeC,-10,10,D.bestTime);
   paintSweet(slRot,sweetSegs('rot'));paintSweet(slTime,sweetSegs('time'));
   refreshVerdict();refreshExtras();dirty=true;if(!noAudio)scheduleAudio();
@@ -757,6 +783,7 @@ $('#fxPol').addEventListener('click',function(){S.pol=-S.pol;syncUI();recompute(
 $('#fxFull').addEventListener('click',function(){S.full=!S.full;syncUI();recompute(false);});
 $('#fxReset').addEventListener('click',function(){S.bp=S.bp.map(function(){return 0;});S.pol=1;S.rot=0;S.time=0;S.lo=20;S.hi=200;S.full=false;syncUI();recompute(false);});
 $('#fxAuto').addEventListener('click',autoAlign);
+$('#fxDeep').addEventListener('click',function(){S.deep=!S.deep;this.className='chip mon'+(S.deep?' on':'');autoAlign();});
 $('#monMono').addEventListener('click',function(){S.mono=!S.mono;this.className='chip mon'+(S.mono?' on':'');scheduleAudio();});
 $('#monLow').addEventListener('click',function(){S.low=!S.low;this.className='chip mon'+(S.low?' on':'');scheduleAudio();});
 $('#snapRot').addEventListener('click',function(){slRot.set(D.bestRot);});
@@ -788,14 +815,14 @@ document.addEventListener('keydown',function(e){var t=e.target.tagName;if(t==='I
   cv.addEventListener('lostpointercapture',function(){drag=null;bdrag=-1;});window.addEventListener('pointerup',function(){drag=null;bdrag=-1;});
   cv.addEventListener('pointermove',function(e){if(!(e.buttons&1)){drag=null;bdrag=-1;}var p=loc(e),g=D.clashGeom;if(!g)return;
     if(drag){var f=freqAt(p.x);if(drag==='lo')setBand(f,S.hi);else setBand(S.lo,f);return;}
-    if(bdrag>=0){var t=clamp((g.cy-p.y)/(g.ph/2),-1,1);S.bp[bdrag]=bandSolve(bdrag,t,S.bp[bdrag]);recompute(false);return;}
+    if(bdrag>=0){var t=clamp((g.cy-p.y)/(g.ph/2),-1,1);S.bp[bdrag]=bandSolve(bdrag,t*(D.bcm[bdrag]||1),S.bp[bdrag]);recompute(false);return;}
     if(!S.full&&(Math.abs(p.x-g.xl)<8||Math.abs(p.x-g.xh)<8))cv.style.cursor='ew-resize';else cv.style.cursor=active(bandAt(p.x))?'ns-resize':'default';});
   cv.addEventListener('pointerup',function(){drag=null;bdrag=-1;});cv.addEventListener('pointercancel',function(){drag=null;bdrag=-1;});
   cv.addEventListener('dblclick',function(e){var p=loc(e),i=bandAt(p.x);if(active(i)){S.bp[i]=bandBest(i);recompute(false);}});
   cv.setAttribute('data-tip','One bar per third-octave: how well kick and bass line up there (up and green = good, down and pink = cancelling). Ring = before. Drag a bar up or down to turn the phase of just that band, double click a bar for its best setting. A dot under the label means that band is turned. Drag the dashed lines to choose the range the fixer works on.');
 })();
-$('#cvDial').setAttribute('data-tip','One needle for the chosen band. It points up when kick and bass add up, down when they cancel. Phase rotation turns the needle. A short needle means the two drift against each other, so no single phase setting lines them up fully; try time shift or the bars per band. The dashed needle shows where it was before the fixer.');
-$('#pVerd').setAttribute('data-tip','The verdict for the chosen band. Green: kick and bass add up. Yellow: partly out of phase. Pink: they cancel. The dB number is how much louder or quieter the low end gets when the two play together, compared with no interaction.');
+$('#cvDial').setAttribute('data-tip','One needle for the chosen band. Straight up = aligned 100%, the best this kick and bass can do; down = they cancel as much as they can. Phase rotation turns the needle. A short needle means the two drift against each other, so no single phase setting lines them up fully; try time shift or the bars per band. The dashed needle shows where it was before the fixer.');
+$('#pVerd').setAttribute('data-tip','The verdict for the chosen band. Green: kick and bass add up as well as they can. Yellow: partly out of phase. Pink: they cancel. The dB number is how much louder or quieter the low end gets when the two play together; best is the most this kick and bass can reach with one phase and time setting. Basslines whose notes differ from the kick pitch overlap less, so their best is smaller.');
 
 /* ===== boot ===== */
 function boot(){

diff --git a/README.md b/README.md
@@ -14,10 +14,10 @@ Design stage. There is no plugin build to download yet. The interactive mockup i
 
 - Sits on the bass track; the kick comes in through the sidechain input.
 - Shows kick and bass on top of each other, plus their sum (what the low end sounds like in mono).
-- One verdict: in phase, careful, or cancelling, with the level change of the low end in dB.
+- One verdict: in phase, careful, or cancelling, shown against the best this kick and bass can reach, with the level change of the low end in dB.
 - A phase needle: up means kick and bass add up, down means they cancel.
 - A view by frequency (third-octave bars); drag a bar to turn the phase of that band only.
-- Fixer for the bass: polarity flip, phase rotation (0 to 360 degrees), time shift (-10 to +10 ms), and Auto Align, which sets all three in one click and can also turn each band to its own best phase.
+- Fixer for the bass: polarity flip, phase rotation (0 to 360 degrees), time shift (-10 to +10 ms), and Auto Align, which sets all three in one click and also turns each band to its own best phase (can be switched off).
 - The fixer only works inside the chosen band (default 20 to 200 Hz), so the rest of the bass stays untouched.
 - A "fix at the source" hint: the same correction as a synth start phase or a clip nudge in ms, so the fixer can stay off.
 - A warning when the bass phase jumps from hit to hit (free-running oscillators), with the advice to turn on retrigger.

diff --git a/ROADMAP.md b/ROADMAP.md
@@ -1,7 +1,7 @@
 # Roadmap
 
 ## Done
-- Interactive design mockup (docs/mockups), version 8.
+- Interactive design mockup (docs/mockups), version 9.
 
 ## Next
 - Decide the real-time method for phase rotation and per band phase (allpass, FIR or FFT based) and its latency; report the latency to the host.
